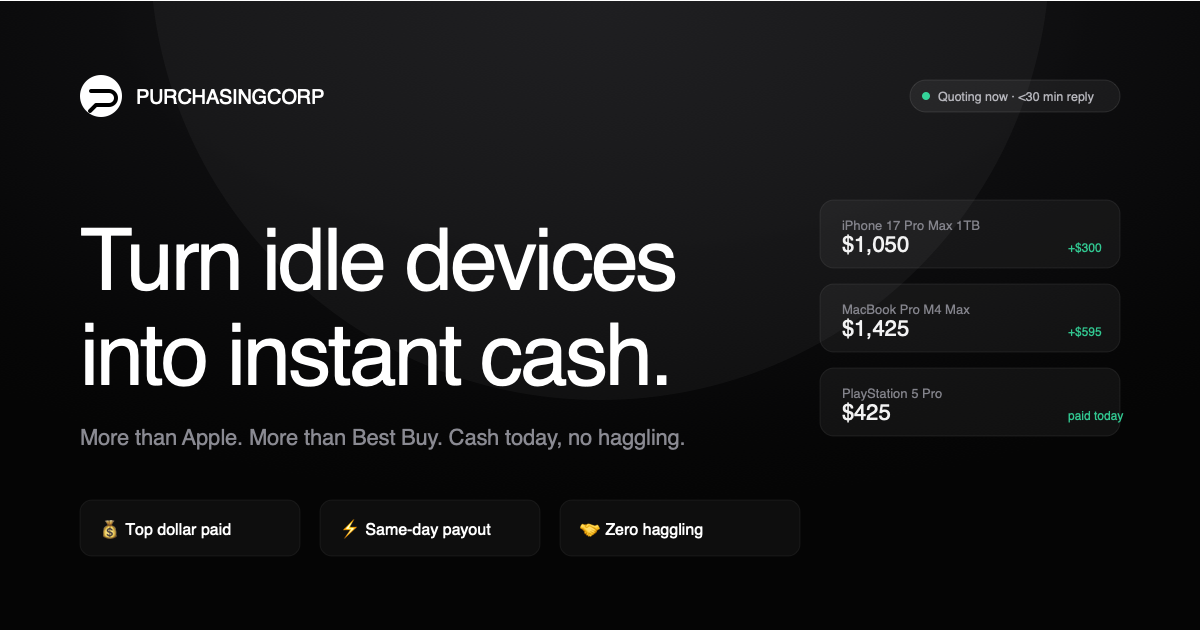
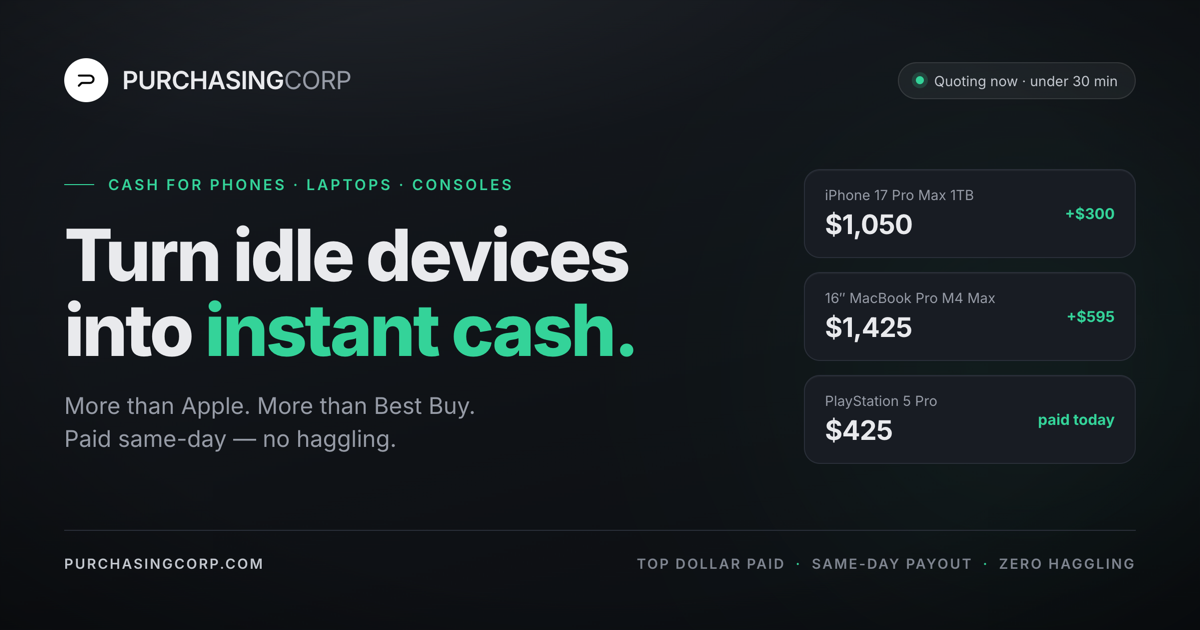
site: redesign link-preview (og) image — on-brand, no emoji/serif
Rebuild og-image.png from a new HTML source (social/og-image.html) rendered
via Puppeteer: charcoal canvas, Inter-only, emerald emphasis, aligned price
chips. Bump og:image/twitter:image to ?v=2 site-wide so social platforms
re-fetch the new art instead of serving the cached old preview.

diff --git a/social/og-image.html b/social/og-image.html
@@ -1,0 +1,99 @@
+<!doctype html>
+<html lang="en">
+<head>
+<meta charset="utf-8">
+<!--
+  Source for /og-image.png (link-share preview, 1200x630).
+  Rendered with: node social/render-og.js
+  Uses the same design tokens as social/templates/_shared.css and the site:
+  charcoal canvas, Inter only, emphasis via weight + emerald (no italic serif,
+  no emoji). Layout is flexbox so text never needs hand-placed coordinates.
+-->
+<style>
+@import url('https://fonts.googleapis.com/css2?family=Inter:wght@400;500;600;700;800;900&display=block');
+
+:root{
+  --bg:#111419; --bg-elevated:#181c23;
+  --border:#2a2f39;
+  --text:#e9eaed; --text-soft:#c3c7ce; --text-muted:#969ba6; --text-dim:#7e848f;
+  --accent:#34d399;
+  --font:'Inter',-apple-system,BlinkMacSystemFont,'Segoe UI',sans-serif;
+}
+*{box-sizing:border-box;margin:0;padding:0;}
+html,body{width:1200px;height:630px;overflow:hidden;}
+body{
+  font-family:var(--font);
+  background:linear-gradient(165deg,#161a20 0%,#0f1216 60%,#0c0e12 100%);
+  color:var(--text);
+  -webkit-font-smoothing:antialiased;
+  position:relative;
+}
+.glow-top{position:absolute;inset:0;background:radial-gradient(ellipse 900px 420px at 30% -14%,rgba(255,255,255,0.06),transparent 60%);pointer-events:none;}
+.glow-chip{position:absolute;right:-40px;top:150px;width:430px;height:430px;border-radius:50%;background:var(--accent);filter:blur(130px);opacity:0.07;pointer-events:none;}
+.vignette{position:absolute;inset:0;background:radial-gradient(ellipse at 50% 46%,transparent 0%,transparent 62%,rgba(0,0,0,0.34) 100%);pointer-events:none;}
+
+.stage{position:relative;z-index:1;width:100%;height:100%;padding:58px 64px;display:flex;flex-direction:column;}
+
+.top{display:flex;align-items:center;justify-content:space-between;}
+.brand{display:flex;align-items:center;gap:14px;}
+.brand-mark{width:44px;height:44px;border-radius:50%;background:#fff;display:flex;align-items:center;justify-content:center;flex-shrink:0;}
+.brand-mark svg{width:22px;height:22px;display:block;}
+.brand-name{font-weight:600;font-size:25px;letter-spacing:-0.02em;text-transform:uppercase;}
+.brand-name .muted{color:var(--text-muted);font-weight:400;}
+.status{display:flex;align-items:center;gap:10px;padding:9px 17px;border-radius:999px;background:rgba(255,255,255,0.05);border:1px solid rgba(255,255,255,0.10);font-size:14px;color:var(--text-soft);}
+.status .pulse{width:8px;height:8px;border-radius:50%;background:var(--accent);box-shadow:0 0 0 4px rgba(52,211,153,0.18);}
+
+.hero{flex:1;display:flex;align-items:center;gap:52px;}
+.copy{flex:1;min-width:0;}
+.eyebrow{display:flex;align-items:center;gap:14px;font-size:15px;font-weight:600;letter-spacing:0.16em;text-transform:uppercase;color:var(--accent);margin-bottom:24px;}
+.eyebrow::before{content:"";width:30px;height:1px;background:var(--accent);}
+.headline{font-weight:800;font-size:72px;line-height:1.04;letter-spacing:-0.035em;color:var(--text);}
+.headline em{font-style:normal;color:var(--accent);}
+.subhead{margin-top:22px;font-size:23px;line-height:1.45;color:var(--text-muted);max-width:540px;}
+
+.chips{width:332px;flex-shrink:0;display:flex;flex-direction:column;gap:14px;}
+.chip{display:flex;align-items:center;justify-content:space-between;background:var(--bg-elevated);border:1px solid var(--border);border-radius:16px;padding:16px 20px;box-shadow:inset 0 1px 0 rgba(255,255,255,0.04);}
+.chip-model{font-size:14px;color:var(--text-muted);margin-bottom:5px;}
+.chip-price{font-size:27px;font-weight:700;letter-spacing:-0.02em;color:var(--text);}
+.chip-delta{font-size:15px;font-weight:700;color:var(--accent);white-space:nowrap;}
+
+.footer{display:flex;align-items:center;justify-content:space-between;border-top:1px solid var(--border);padding-top:24px;font-size:14px;font-weight:600;letter-spacing:0.12em;text-transform:uppercase;color:var(--text-dim);}
+.footer .url{color:var(--text-soft);}
+.footer .bul{color:var(--accent);margin:0 10px;}
+</style>
+</head>
+<body>
+  <div class="glow-top"></div>
+  <div class="glow-chip"></div>
+  <div class="vignette"></div>
+  <div class="stage">
+    <div class="top">
+      <div class="brand">
+        <div class="brand-mark">
+          <svg viewBox="0 0 24 24" fill="none" stroke="#000" stroke-width="2.2" stroke-linecap="round" stroke-linejoin="round"><path d="M4 7h12a4 4 0 0 1 0 8H7l-3 3"/></svg>
+        </div>
+        <div class="brand-name">PURCHASING<span class="muted">CORP</span></div>
+      </div>
+      <div class="status"><span class="pulse"></span>Quoting now · under 30 min</div>
+    </div>
+
+    <div class="hero">
+      <div class="copy">
+        <div class="eyebrow">Cash for phones · laptops · consoles</div>
+        <div class="headline">Turn idle devices<br>into <em>instant cash.</em></div>
+        <div class="subhead">More than Apple. More than Best Buy.<br>Paid same-day &mdash; no haggling.</div>
+      </div>
+      <div class="chips">
+        <div class="chip"><div><div class="chip-model">iPhone 17 Pro Max 1TB</div><div class="chip-price">$1,050</div></div><div class="chip-delta">+$300</div></div>
+        <div class="chip"><div><div class="chip-model">16&Prime; MacBook Pro M4 Max</div><div class="chip-price">$1,425</div></div><div class="chip-delta">+$595</div></div>
+        <div class="chip"><div><div class="chip-model">PlayStation 5 Pro</div><div class="chip-price">$425</div></div><div class="chip-delta">paid today</div></div>
+      </div>
+    </div>
+
+    <div class="footer">
+      <div class="url">purchasingcorp.com</div>
+      <div><span>Top dollar paid</span><span class="bul">·</span><span>Same-day payout</span><span class="bul">·</span><span>Zero haggling</span></div>
+    </div>
+  </div>
+</body>
+</html>

diff --git a/social/render-og.js b/social/render-og.js
@@ -1,0 +1,37 @@
+#!/usr/bin/env node
+// Renders social/og-image.html -> og-image.new.png at 2x (2400x1260).
+// A separate `sips` pass downscales it to the final 1200x630 og-image.png,
+// which supersamples the text for crisp edges at the declared og dimensions.
+'use strict';
+
+const fs = require('fs');
+const path = require('path');
+const puppeteer = require('puppeteer');
+
+const HTML = 'file://' + path.join(__dirname, 'og-image.html');
+const OUT = path.join(__dirname, '..', 'og-image.new.png');
+const SCALE = 2;
+
+// The cached Chrome-for-Testing binary fails to spawn on this machine, so
+// prefer the system-installed Google Chrome when present.
+const SYS_CHROME = '/Applications/Google Chrome.app/Contents/MacOS/Google Chrome';
+
+(async () => {
+  const launchOpts = {
+    headless: 'new',
+    args: ['--no-sandbox', '--disable-setuid-sandbox', '--font-render-hinting=none'],
+  };
+  if (process.env.PUPPETEER_EXECUTABLE_PATH) launchOpts.executablePath = process.env.PUPPETEER_EXECUTABLE_PATH;
+  else if (fs.existsSync(SYS_CHROME)) launchOpts.executablePath = SYS_CHROME;
+
+  const browser = await puppeteer.launch(launchOpts);
+  const page = await browser.newPage();
+  page.on('pageerror', (e) => console.warn('[og] page error:', e.message));
+  await page.setViewport({ width: 1200, height: 630, deviceScaleFactor: SCALE });
+  await page.goto(HTML, { waitUntil: 'networkidle0', timeout: 60000 });
+  try { await page.evaluate(() => (document.fonts ? document.fonts.ready : null)); } catch (e) { /* noop */ }
+  await new Promise((r) => setTimeout(r, 200));
+  await page.screenshot({ path: OUT, type: 'png' });
+  await browser.close();
+  console.log('[og] wrote', OUT);
+})().catch((e) => { console.error('[og] fatal:', e); process.exit(1); });

diff --git a/faq.html b/faq.html
@@ -31,14 +31,14 @@
 <meta property="og:title" content="FAQ · PurchasingCorp" />
 <meta property="og:description" content="Common questions about selling to PurchasingCorp. Payouts, shipping, carrier-locked devices, bulk lots." />
 <meta property="og:url" content="https://purchasingcorp.com/faq" />
-<meta property="og:image" content="https://purchasingcorp.com/og-image.png" />
+<meta property="og:image" content="https://purchasingcorp.com/og-image.png?v=2" />
 <meta property="og:image:width" content="1200" />
 <meta property="og:image:height" content="630" />
 
 <meta name="twitter:card" content="summary_large_image" />
 <meta name="twitter:title" content="FAQ · PurchasingCorp" />
 <meta name="twitter:description" content="Common questions about selling to PurchasingCorp." />
-<meta name="twitter:image" content="https://purchasingcorp.com/og-image.png" />
+<meta name="twitter:image" content="https://purchasingcorp.com/og-image.png?v=2" />
 
 <link rel="preconnect" href="https://fonts.googleapis.com">
 <link rel="preconnect" href="https://fonts.gstatic.com" crossorigin>

diff --git a/form.html b/form.html
@@ -31,14 +31,14 @@
 <meta property="og:title" content="Get a Quote · PurchasingCorp" />
 <meta property="og:description" content="Tell us what you're selling and get a firm cash offer, usually within a couple of hours." />
 <meta property="og:url" content="https://purchasingcorp.com/form" />
-<meta property="og:image" content="https://purchasingcorp.com/og-image.png" />
+<meta property="og:image" content="https://purchasingcorp.com/og-image.png?v=2" />
 <meta property="og:image:width" content="1200" />
 <meta property="og:image:height" content="630" />
 
 <meta name="twitter:card" content="summary_large_image" />
 <meta name="twitter:title" content="Get a Quote · PurchasingCorp" />
 <meta name="twitter:description" content="Tell us what you're selling and get a firm cash offer, usually within a couple of hours." />
-<meta name="twitter:image" content="https://purchasingcorp.com/og-image.png" />
+<meta name="twitter:image" content="https://purchasingcorp.com/og-image.png?v=2" />
 
 <link rel="preconnect" href="https://fonts.googleapis.com">
 <link rel="preconnect" href="https://fonts.gstatic.com" crossorigin>

diff --git a/index.html b/index.html
@@ -35,7 +35,7 @@
 <meta property="og:title" content="Turn idle devices into instant cash" />
 <meta property="og:description" content="We pay more than Apple, Best Buy, or any trade-in app. No haggling, no lowballs, paid same-day." />
 <meta property="og:url" content="https://purchasingcorp.com/" />
-<meta property="og:image" content="https://purchasingcorp.com/og-image.png" />
+<meta property="og:image" content="https://purchasingcorp.com/og-image.png?v=2" />
 <meta property="og:image:width" content="1200" />
 <meta property="og:image:height" content="630" />
 <meta property="og:image:alt" content="PurchasingCorp · Turn idle devices into instant cash" />
@@ -44,7 +44,7 @@
 <meta name="twitter:card" content="summary_large_image" />
 <meta name="twitter:title" content="Turn idle devices into instant cash" />
 <meta name="twitter:description" content="We pay more than Apple, Best Buy, or any trade-in app. Cash today, no haggling." />
-<meta name="twitter:image" content="https://purchasingcorp.com/og-image.png" />
+<meta name="twitter:image" content="https://purchasingcorp.com/og-image.png?v=2" />
 
 <link rel="preconnect" href="https://fonts.googleapis.com">
 <link rel="preconnect" href="https://fonts.gstatic.com" crossorigin>

diff --git a/mission.html b/mission.html
@@ -33,7 +33,7 @@
 <meta property="og:title" content="Our Mission · PurchasingCorp" />
 <meta property="og:description" content="Keep tech in use, out of landfills. Refurbished, resold, and responsibly recycled, every device that comes through us." />
 <meta property="og:url" content="https://purchasingcorp.com/mission" />
-<meta property="og:image" content="https://purchasingcorp.com/og-image.png" />
+<meta property="og:image" content="https://purchasingcorp.com/og-image.png?v=2" />
 <meta property="og:image:width" content="1200" />
 <meta property="og:image:height" content="630" />
 
@@ -41,7 +41,7 @@
 <meta name="twitter:card" content="summary_large_image" />
 <meta name="twitter:title" content="Our Mission · PurchasingCorp" />
 <meta name="twitter:description" content="Keep tech in use, out of landfills. Refurbished, resold, and responsibly recycled." />
-<meta name="twitter:image" content="https://purchasingcorp.com/og-image.png" />
+<meta name="twitter:image" content="https://purchasingcorp.com/og-image.png?v=2" />
 
 <link rel="preconnect" href="https://fonts.googleapis.com">
 <link rel="preconnect" href="https://fonts.gstatic.com" crossorigin>

diff --git a/pricing.html b/pricing.html
@@ -33,7 +33,7 @@
 <meta property="og:title" content="Cashout Rates · PurchasingCorp" />
 <meta property="og:description" content="Current buyback rates for iPhones, MacBooks, consoles, and more. Updated live from our pricing sheet." />
 <meta property="og:url" content="https://purchasingcorp.com/pricing" />
-<meta property="og:image" content="https://purchasingcorp.com/og-image.png" />
+<meta property="og:image" content="https://purchasingcorp.com/og-image.png?v=2" />
 <meta property="og:image:width" content="1200" />
 <meta property="og:image:height" content="630" />
 <meta property="og:image:alt" content="PurchasingCorp · Cashout Rates" />
@@ -42,7 +42,7 @@
 <meta name="twitter:card" content="summary_large_image" />
 <meta name="twitter:title" content="Cashout Rates · PurchasingCorp" />
 <meta name="twitter:description" content="Current buyback rates for iPhones, MacBooks, consoles, and more." />
-<meta name="twitter:image" content="https://purchasingcorp.com/og-image.png" />
+<meta name="twitter:image" content="https://purchasingcorp.com/og-image.png?v=2" />
 
 <link rel="preconnect" href="https://fonts.googleapis.com">
 <link rel="preconnect" href="https://fonts.gstatic.com" crossorigin>

diff --git a/process.html b/process.html
@@ -31,14 +31,14 @@
 <meta property="og:title" content="How It Works · PurchasingCorp" />
 <meta property="og:description" content="The 5-step PurchasingCorp cashout flow. Quote, send, inspect, paid. Most sales close in hours." />
 <meta property="og:url" content="https://purchasingcorp.com/process" />
-<meta property="og:image" content="https://purchasingcorp.com/og-image.png" />
+<meta property="og:image" content="https://purchasingcorp.com/og-image.png?v=2" />
 <meta property="og:image:width" content="1200" />
 <meta property="og:image:height" content="630" />
 
 <meta name="twitter:card" content="summary_large_image" />
 <meta name="twitter:title" content="How It Works · PurchasingCorp" />
 <meta name="twitter:description" content="The 5-step PurchasingCorp cashout flow. Quote, send, inspect, paid." />
-<meta name="twitter:image" content="https://purchasingcorp.com/og-image.png" />
+<meta name="twitter:image" content="https://purchasingcorp.com/og-image.png?v=2" />
 
 <link rel="preconnect" href="https://fonts.googleapis.com">
 <link rel="preconnect" href="https://fonts.gstatic.com" crossorigin>

diff --git a/safety.html b/safety.html
@@ -33,7 +33,7 @@
 <meta property="og:title" content="Trust &amp; Safety · PurchasingCorp" />
 <meta property="og:description" content="Safe, verified, same-day payouts. See how every sale is protected." />
 <meta property="og:url" content="https://purchasingcorp.com/safety" />
-<meta property="og:image" content="https://purchasingcorp.com/og-image.png" />
+<meta property="og:image" content="https://purchasingcorp.com/og-image.png?v=2" />
 <meta property="og:image:width" content="1200" />
 <meta property="og:image:height" content="630" />
 
@@ -41,7 +41,7 @@
 <meta name="twitter:card" content="summary_large_image" />
 <meta name="twitter:title" content="Trust &amp; Safety · PurchasingCorp" />
 <meta name="twitter:description" content="Safe, verified, same-day payouts. See how every sale is protected." />
-<meta name="twitter:image" content="https://purchasingcorp.com/og-image.png" />
+<meta name="twitter:image" content="https://purchasingcorp.com/og-image.png?v=2" />
 
 <link rel="preconnect" href="https://fonts.googleapis.com">
 <link rel="preconnect" href="https://fonts.gstatic.com" crossorigin>

diff --git a/privacy.html b/privacy.html
@@ -32,7 +32,7 @@
 <meta property="og:title" content="Privacy Policy &amp; Terms · PurchasingCorp" />
 <meta property="og:description" content="How PurchasingCorp collects, processes and protects personal data." />
 <meta property="og:url" content="https://purchasingcorp.com/privacy" />
-<meta property="og:image" content="https://purchasingcorp.com/og-image.png" />
+<meta property="og:image" content="https://purchasingcorp.com/og-image.png?v=2" />
 
 <link rel="preconnect" href="https://fonts.googleapis.com">
 <link rel="preconnect" href="https://fonts.gstatic.com" crossorigin>